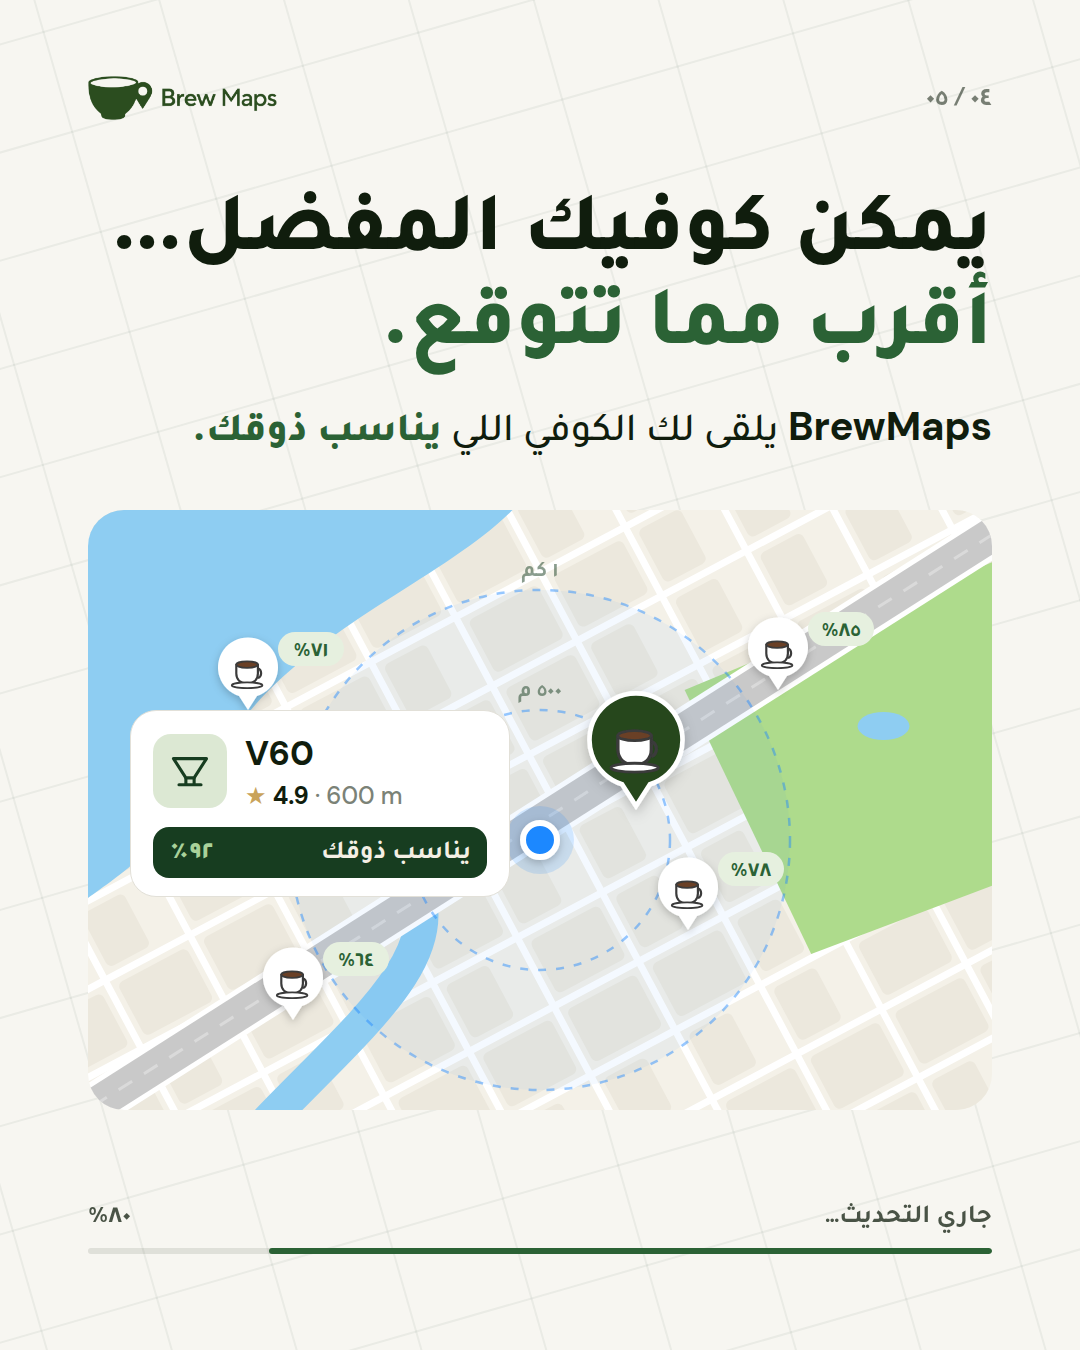
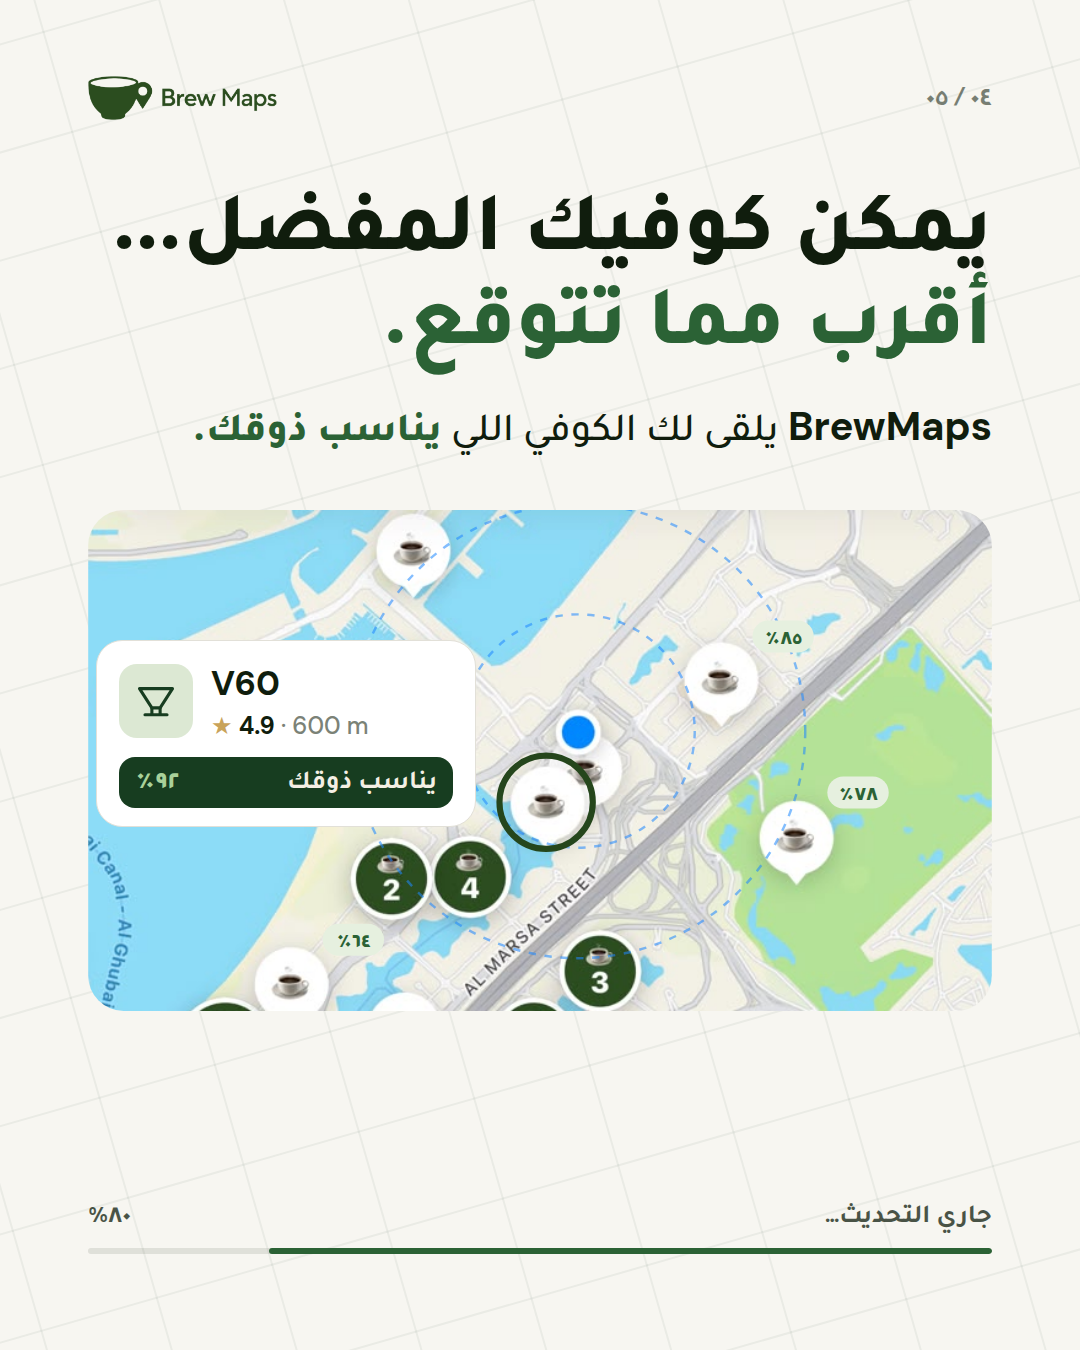
روتين قهوتك: use the app's real map on slides 2 and 4
Claude-Session: https://claude.ai/code/session_01UCKVHF8Bj15Neb29ir5cAN

Changed region(s): [[0.0611, 0.3733, 0.9167, 0.84]]

diff --git a/marketing/posts/coffee-routine-update/slides.html b/marketing/posts/coffee-routine-update/slides.html
@@ -70,24 +70,15 @@ const S = {
 
   // 2 · PROBLEM: the same loop, again and again
   2: `<div class="h" style="top:190px; font-size:84px;">كل مرة تفتح الماب…<br>وترجع لنفس <span class="em">الأماكن؟</span></div>
-      <svg style="position:absolute; top:470px; left:var(--M);" width="904" height="560" viewBox="0 0 904 560">
-        <defs><clipPath id="c2"><rect width="904" height="560" rx="36"/></clipPath>
-        ${PSH}</defs>
+      <svg style="position:absolute; top:470px; left:var(--M);" width="904" height="501" viewBox="0 0 736 408">
+        <defs><clipPath id="c2"><rect width="736" height="408" rx="29"/></clipPath></defs>
         <g clip-path="url(#c2)">
-          <g class="mb" data-w="904" data-h="560"></g>
-          <!-- everything nearby you haven't tried: faint outline pins -->
-          <g id="faint"></g>
-          <!-- the same three places, round and round -->
-          <g fill="none" stroke="#1E88FF" stroke-width="6" stroke-linecap="round" stroke-dasharray="1 14" opacity=".75">
-            <path d="M560 300 C 520 230, 470 210, 420 200 C 360 190, 330 240, 350 300 C 370 360, 460 380, 520 350"/>
-            <path d="M574 310 C 540 220, 470 190, 410 184 C 340 178, 306 240, 332 312 C 360 384, 470 398, 534 362" opacity=".55"/>
-            <path d="M588 320 C 560 210, 470 170, 400 168 C 320 166, 282 240, 314 324 C 350 408, 480 416, 548 374" opacity=".3"/>
-          </g>
-          ${APIN(420, 200)} ${APIN(350, 300)} ${APIN(520, 350)}
-          ${YOU(572, 308)}
+          <image href="img/appmap.png" width="736" height="408"/>
+          <path d="M399 180 C 450 205, 430 268, 372 270 C 300 272, 232 196, 246 150 C 262 100, 350 118, 399 180" fill="none" stroke="#1E88FF" stroke-width="4" stroke-linecap="round" stroke-dasharray="0.1 11"/>
+          <path d="M405 172 C 466 200, 446 284, 370 284 C 286 286, 214 196, 232 142 C 252 84, 356 104, 405 172" fill="none" stroke="#1E88FF" stroke-width="4" stroke-linecap="round" stroke-dasharray="0.1 11" opacity=".45"/>
         </g>
       </svg>
-      <div class="sub" style="top:1060px; font-size:40px;">فيه كوفيات حولك <span class="em" style="font-weight:800">يمكن ما قد جرّبتها.</span></div>`,
+      <div class="sub" style="top:1010px; font-size:40px;">فيه كوفيات حولك <span class="em" style="font-weight:800">يمكن ما قد جرّبتها.</span></div>`,
 
   // 3 · SOLUTION: browse by area
   3: `<div class="h" style="top:180px; font-size:76px; line-height:1.18;">افتح <span class="latin em" style="font-weight:700">BrewMaps</span>.<br>اختَر المنطقة.<br>وشوف وش <span class="em">حولك.</span></div>
@@ -102,23 +93,18 @@ const S = {
   // 4 · PAYOFF: closer than you think
   4: `<div class="h" style="top:190px; font-size:84px; white-space:nowrap;">يمكن كوفيك المفضل…<br><span class="em">أقرب مما تتوقع.</span></div>
       <div class="sub" style="top:398px; font-size:40px;"><span class="latin" style="font-weight:700">BrewMaps</span> يلقى لك الكوفي اللي <span class="em" style="font-weight:800">يناسب ذوقك.</span></div>
-      <svg style="position:absolute; top:510px; left:var(--M);" width="904" height="600" viewBox="0 0 904 600">
-        <defs><clipPath id="c4"><rect width="904" height="600" rx="36"/></clipPath>${PSH}</defs>
+      <svg style="position:absolute; top:510px; left:var(--M);" width="904" height="501" viewBox="0 0 736 408">
+        <defs><clipPath id="c4"><rect width="736" height="408" rx="29"/></clipPath></defs>
         <g clip-path="url(#c4)">
-          <g class="mb" data-w="904" data-h="600"></g>
-          <g fill="#1E88FF" opacity=".05"><circle cx="452" cy="330" r="250"/></g>
-          <g fill="none" stroke="#1E88FF" stroke-width="2.5" stroke-dasharray="8 10" opacity=".45"><circle cx="452" cy="330" r="130"/><circle cx="452" cy="330" r="250"/></g>
-          <text x="452" y="186" text-anchor="middle" font-size="22" font-weight="700" fill="#173D20" opacity=".5">٥٠٠ م</text>
-          <text x="452" y="66" text-anchor="middle" font-size="22" font-weight="700" fill="#173D20" opacity=".5">١ كم</text>
-          ${APIN(600, 420)} ${APIN(205, 510)} ${APIN(690, 180)} ${APIN(160, 200)}
-          ${YOU(452, 330)}
-          <g transform="translate(548 296) scale(1.55)" filter="url(#psh)"><path d="M0 0 L-9 -14 A30 30 0 1 1 9 -14 Z" fill="#25461C" stroke="#fff" stroke-width="3"/><g transform="translate(0 -40) scale(.9)">${MUG}</g></g>
-          <g font-family="Tajawal" font-weight="700" font-size="22" text-anchor="middle">
-            ${[[600,420,'٧٨٪'],[205,510,'٦٤٪'],[690,180,'٨٥٪'],[160,200,'٧١٪']].map(([x,y,t]) => `<rect x="${x+30}" y="${y-78}" width="66" height="34" rx="17" fill="#E6F0DF"/><text x="${x+63}" y="${y-54}" fill="#2B6235">${t}</text>`).join('')}
+          <image href="img/appmap.png" width="736" height="408"/>
+          <g fill="none" stroke="#1E88FF" stroke-width="2" stroke-dasharray="6 7" opacity=".55"><circle cx="399" cy="180" r="95"/><circle cx="399" cy="180" r="185"/></g>
+          <g font-family="Tajawal" font-weight="800" font-size="17" text-anchor="middle">
+            ${[[515,138,'٨٥٪'],[576,265,'٧٨٪'],[165,385,'٦٤٪']].map(([x,y,t]) => `<rect x="${x+26}" y="${y-48}" width="50" height="26" rx="13" fill="#E6F0DF"/><text x="${x+51}" y="${y-29}" fill="#2B6235">${t}</text>`).join('')}
           </g>
+          <circle cx="373" cy="238" r="38" fill="none" stroke="#25461C" stroke-width="5"/>
         </g>
       </svg>
-      <div style="position:absolute; top:710px; left:130px; width:380px; background:#fff; border:1.5px solid var(--line); border-radius:26px; padding:20px 22px 18px;">
+      <div style="position:absolute; top:640px; left:96px; width:380px; background:#fff; border:1.5px solid var(--line); border-radius:26px; padding:20px 22px 18px;">
       <div style="display:flex; gap:18px; align-items:center; direction:ltr; font-family:'DM Sans';">
         <span style="width:74px; height:74px; border-radius:18px; background:var(--sage); display:grid; place-items:center; flex:none;">
           <svg width="44" height="44" viewBox="-32 -32 64 64"><path d="M-24 -18 H24 L6 10 H-6 Z" fill="none" stroke="#173D20" stroke-width="4.5" stroke-linejoin="round"/><path d="M-16 20 H16" stroke="#173D20" stroke-width="4.5" stroke-linecap="round"/><path d="M-6 10 V20 M6 10 V20" stroke="#173D20" stroke-width="4.5"/></svg></span>

diff --git a/marketing/posts/coffee-routine-update/README.md b/marketing/posts/coffee-routine-update/README.md
@@ -6,8 +6,8 @@ HOOK → PROBLEM → SOLUTION → PAYOFF → CTA.
 System
 - Green bookends (1 and 5, `#173D20`, cream type); off-white middle (`#F7F6F1`), green the only accent.
 - A faint street grid under every slide; flat map drawings, no photos, no café names.
-- Maps on 2 and 4 follow the app's own map: cream land, blue water, green park, white streets, grey highway;
-  white cup pins, dark-green clusters with counts, the blue you-dot, light-green match % pills.
+- Maps on 2 and 4 are the app's real map, cropped from a BrewMaps Map-tab screenshot (img/appmap.png, Dubai Marina),
+  with light overlays only: a dotted loop (2), match % pills and one highlighted pick (4).
 - The update installs as you swipe: a bar at the bottom fills 20 → 100% ("جاري التحديث…" → "تم التحديث").
 - One grid: 88px margins, logo top-left, slide number top-right, headline zone, visual zone, bar at the bottom.
 - Slide 3's area tiles use the real areas and café counts from the app's Browse by area screen (Jumeirah 24,
